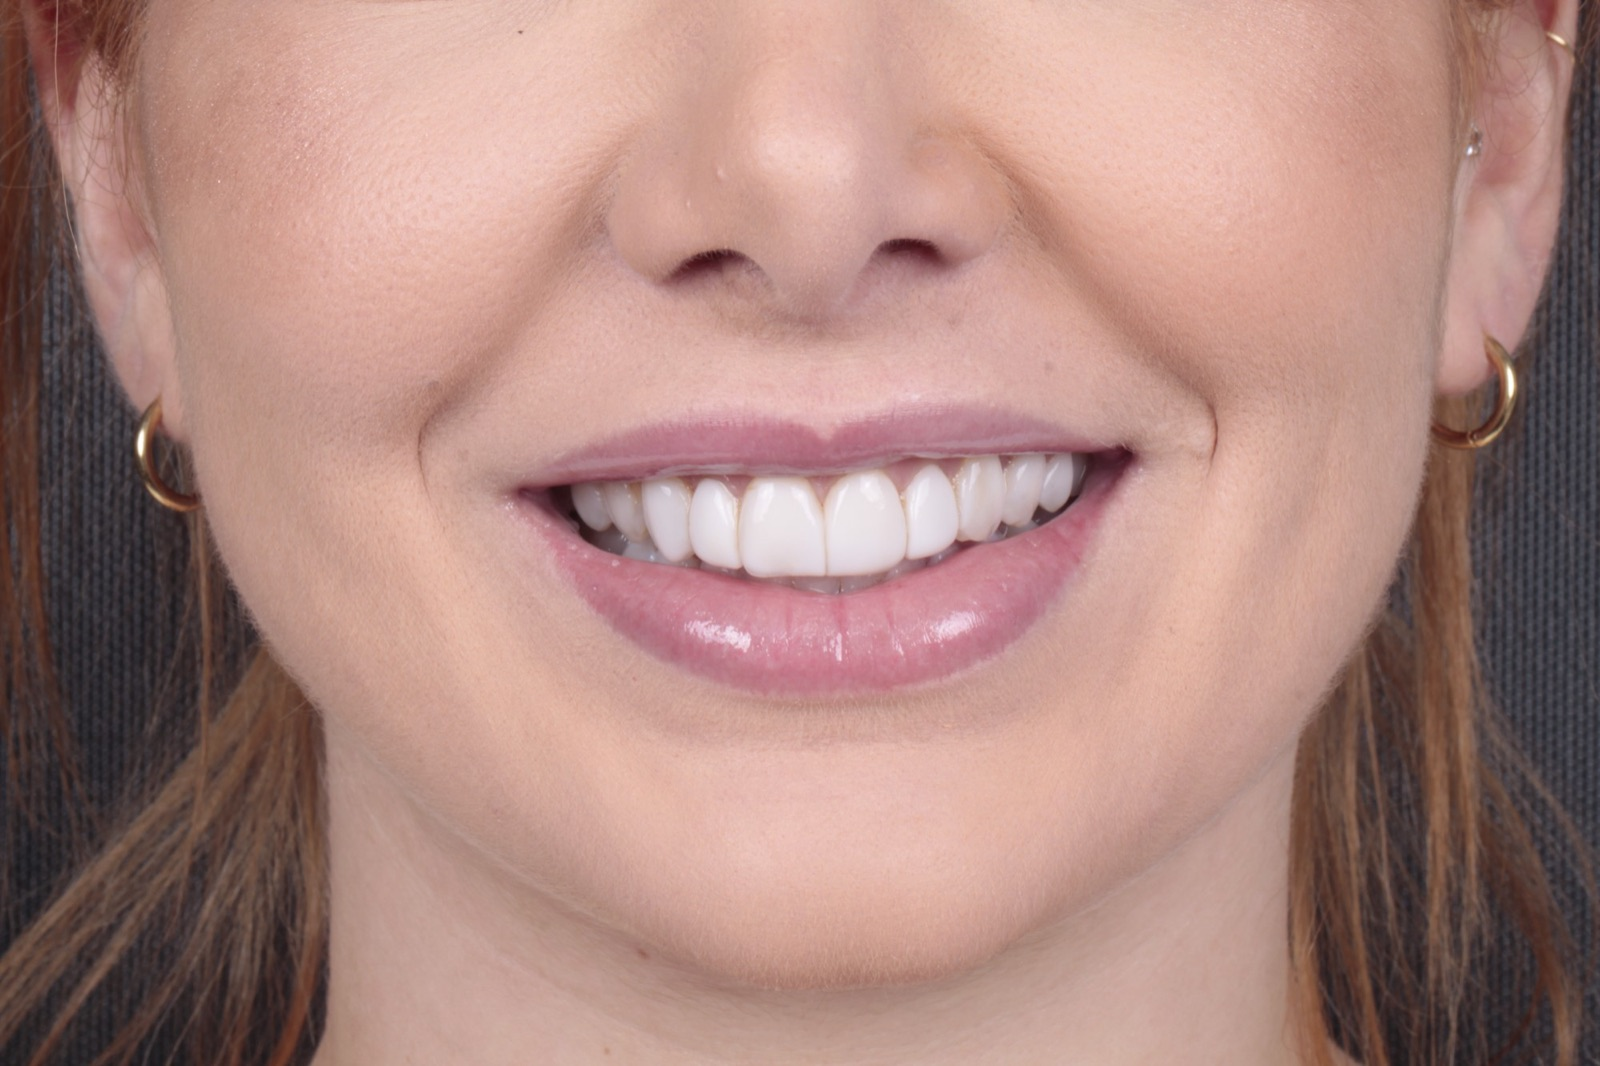
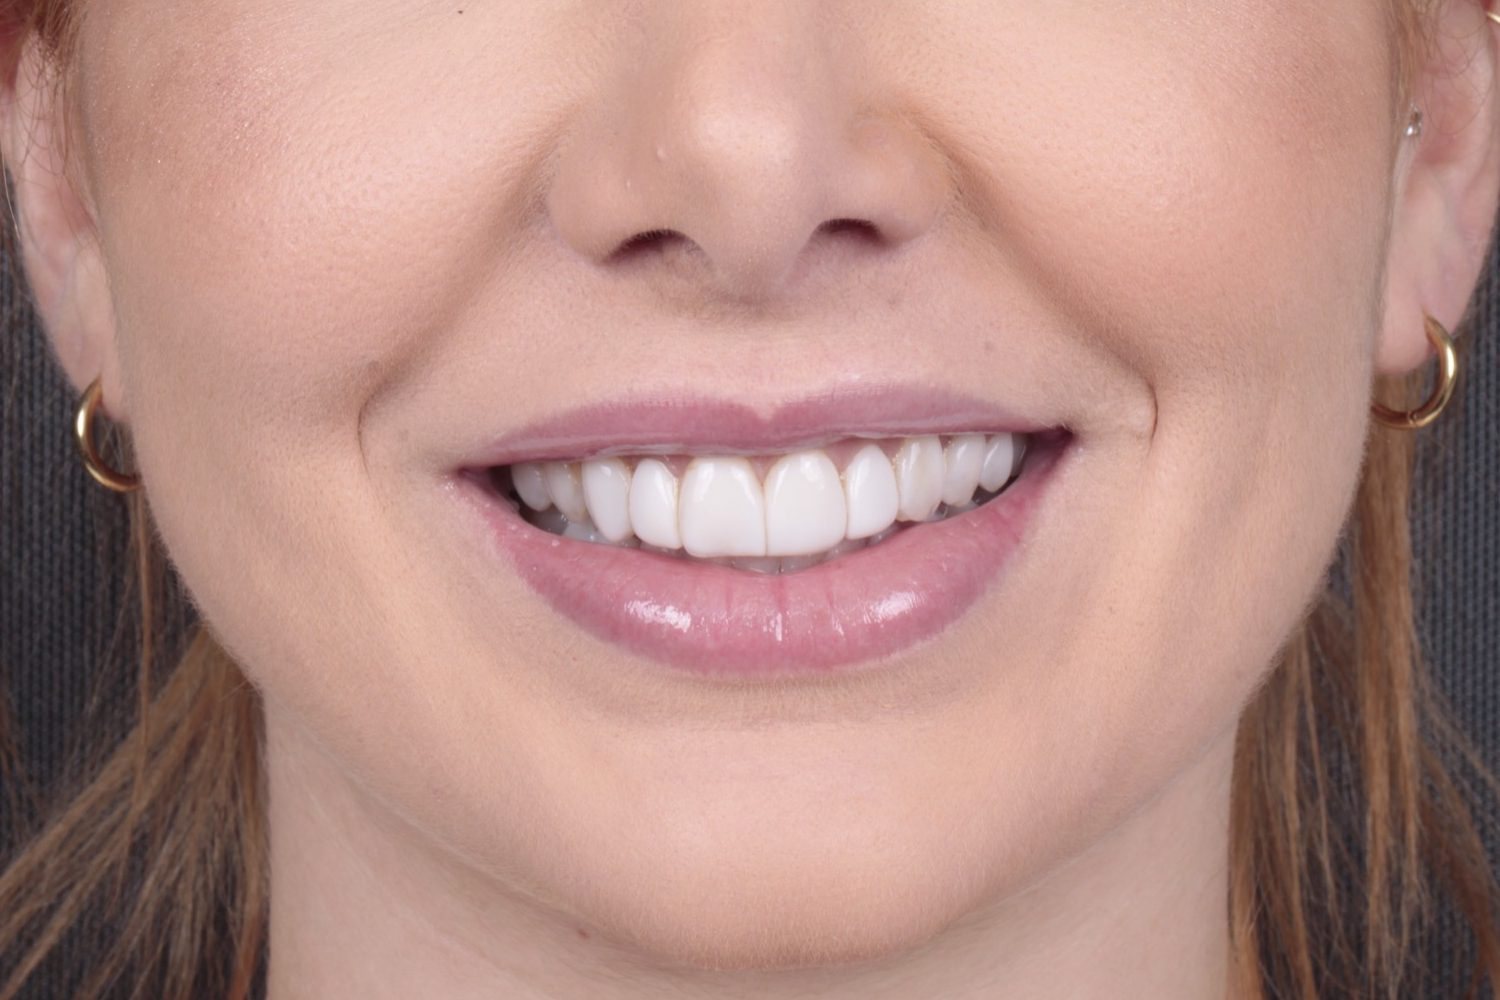
Recorta antes e depois no mesmo enquadramento para o comparador do Dr. Bruno Merola
As duas fotos agora têm 1500x1000 com os incisivos superiores no mesmo
ponto, dispensando o ajuste de escala por CSS.

diff --git a/public/previews/bruno-merola/index.html b/public/previews/bruno-merola/index.html
@@ -68,9 +68,8 @@
 
   /* antes e depois: comparador deslizante */
   .cmp{position:relative;margin-top:40px;aspect-ratio:3/2;max-width:100%;overflow:hidden;background:var(--pedra);user-select:none}
-  .cmp img{position:absolute;inset:0;width:100%;height:100%;object-fit:cover;object-position:50% 45%}
+  .cmp img{position:absolute;inset:0;width:100%;height:100%;object-fit:cover}
   .cmp img.antes{clip-path:inset(0 calc(100% - var(--p)) 0 0)}
-  .cmp img.depois{transform:scale(1.047);transform-origin:50.5% 45%}
   .cmp .linha{position:absolute;top:0;bottom:0;left:var(--p);width:2px;background:var(--ouro-claro);transform:translateX(-1px);pointer-events:none}
   .cmp .linha i{position:absolute;top:50%;left:50%;width:44px;height:44px;border-radius:50%;background:var(--noite);border:1px solid var(--ouro-claro);transform:translate(-50%,-50%)}
   .cmp .linha i::before,.cmp .linha i::after{content:"";position:absolute;top:50%;width:7px;height:7px;border-top:1px solid var(--ouro-claro);border-left:1px solid var(--ouro-claro)}
@@ -135,7 +134,7 @@
       <p>Cada faceta é feita em camadas, à mão, para o seu rosto, a sua pele e o seu jeito de sorrir. Nada de dentes de catálogo.</p>
       <a class="btn cheio" href="https://wa.me/5562981103094?text=Ol%C3%A1%2C%20Dr.%20Bruno.%20Quero%20agendar%20uma%20avalia%C3%A7%C3%A3o." target="_blank" rel="noopener">Agendar avaliação</a>
     </div>
-    <div class="foto"><img src="img/espelho.jpg" alt="Paciente vendo o novo sorriso no espelho" width="1600" height="1067"></div>
+    <div class="foto"><img src="img/espelho.jpg" alt="Paciente vendo o novo sorriso no espelho" width="1500" height="1000"></div>
   </div>
 </section>
 
@@ -145,7 +144,7 @@
     <h2>Antes e depois, sem filtro.</h2>
     <div class="cmp" id="cmp" style="--p:50%">
       <img class="depois" src="img/depois-sorriso.jpg" alt="Sorriso da paciente depois das facetas estratificadas" loading="lazy" width="1600" height="1067">
-      <img class="antes" src="img/antes-sorriso.jpg" alt="Sorriso da paciente antes do tratamento" loading="lazy" width="1600" height="1000">
+      <img class="antes" src="img/antes-sorriso.jpg" alt="Sorriso da paciente antes do tratamento" loading="lazy" width="1500" height="1000">
       <span class="rot a">Antes</span><span class="rot d">Depois</span>
       <div class="linha" aria-hidden="true"><i></i></div>
       <input type="range" id="cmp-range" min="0" max="100" value="50" aria-label="Arraste para comparar antes e depois">
